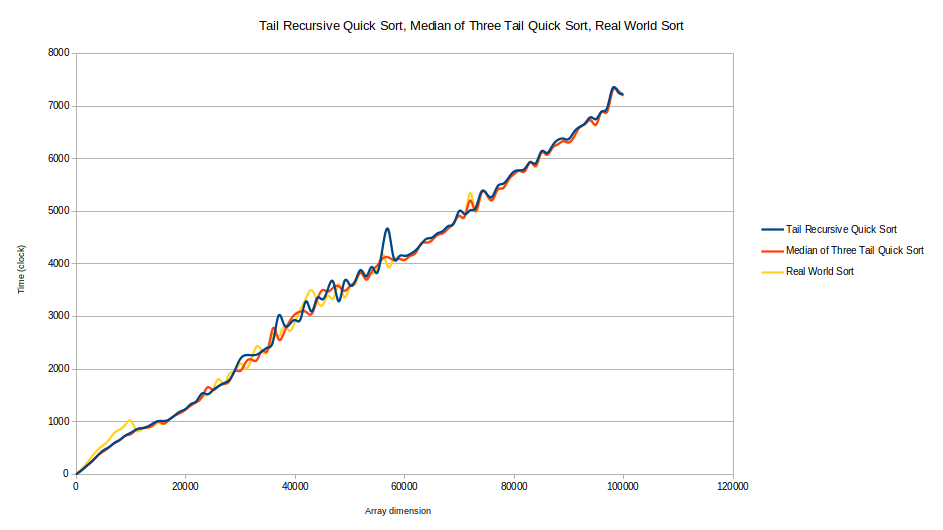
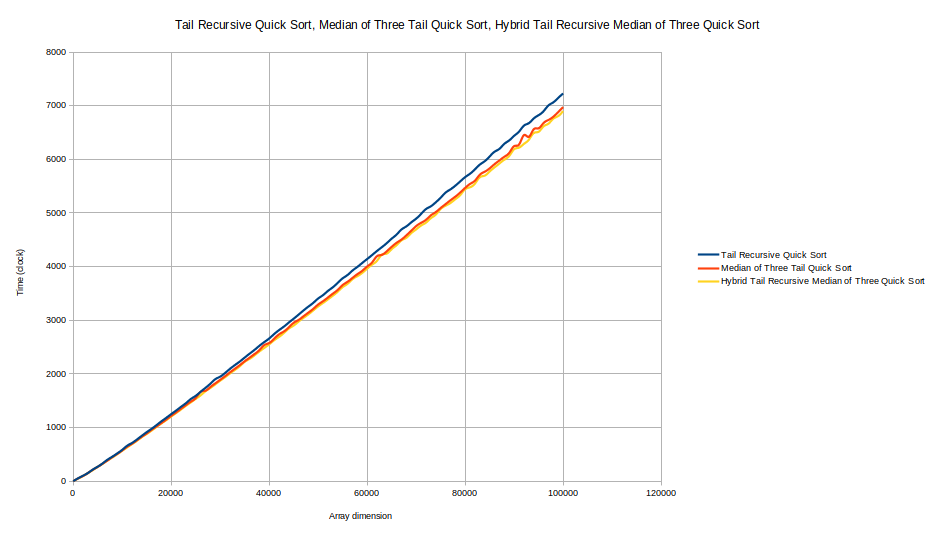
done exp. 4

Changed region(s): [[0.0, 0.0906, 0.8064, 0.9962], [0.7444, 0.4226, 0.9925, 0.5434], [0.1861, 0.0302, 0.8064, 0.0604]]

diff --git a/src/modules/experiments/experiments.c b/src/modules/experiments/experiments.c
@@ -89,7 +89,7 @@ long double experiment_tot(ssize_t length, size_t max_instances, Algorithm algor
                 break;
             }
 
-            case RWS: {
+            case HMTTQS: {
                 t_start = clock(); // starting processor time "stopwatch"
                 HybridTailMedianOfThreeQuickSort(array, 0, length - 1, THRESHOLD); // sorting the array
                 t_end = clock(); // stopping the processor time "stopwatch"
@@ -132,7 +132,7 @@ void lab_tot(char file[], Configuration conf, const bool DEBUG_MODE) {
     }
 
     fprintf(fp,
-            "Dimension (n),Insertion Sort,Merge Sort,Hybrid Sort,Quick Sort,Median of Three Quick Sort,Tail Recursive Quick Sort,Heap Sort,Median of Three Tail Quick Sort,Real World Sort\n");
+            "Dimension (n),Insertion Sort,Merge Sort,Hybrid Sort,Quick Sort,Median of Three Quick Sort,Tail Recursive Quick Sort,Heap Sort,Median of Three Tail Quick Sort,Tail Recursive Quick Sort, Median of Three Tail Quick Sort,Hybrid Tail Recursive Median of Three Quick Sort\n");
     for (ssize_t length = conf.min_length; length <= conf.max_length; length += conf.step) {
         srand(conf.seed);
         long double time_IS = experiment_tot(length, conf.max_instances, IS, conf.threshold, DEBUG_MODE);
@@ -159,10 +159,10 @@ void lab_tot(char file[], Configuration conf, const bool DEBUG_MODE) {
         long double time_MTTQS = experiment_tot(length, conf.max_instances, MTTQS, conf.threshold, DEBUG_MODE);
 
         srand(conf.seed);
-        long double time_RWS = experiment_tot(length, conf.max_instances, RWS, conf.threshold, DEBUG_MODE);
+        long double time_HMTTQS = experiment_tot(length, conf.max_instances, HMTTQS, conf.threshold, DEBUG_MODE);
 
         fprintf(fp, "%ld,%Lf,%Lf,%Lf,%Lf,%Lf,%Lf,%Lf,%Lf,%Lf\n", length, time_IS, time_MS, time_HS, time_QS,
-                time_MTQS, time_TQS, time_HPS, time_MTTQS, time_RWS); // write to file
+                time_MTQS, time_TQS, time_HPS, time_MTTQS, time_HMTTQS); // write to file
 
         ++conf.seed;
     }

diff --git a/src/modules/experiments/lab_4.c b/src/modules/experiments/lab_4.c
@@ -41,7 +41,7 @@ long double experiment_4(ssize_t length, size_t max_instances, Algorithm algorit
                 break;
             }
 
-            case RWS: {
+            case HMTTQS: {
                 t_start = clock(); // starting processor time stopwatch
                 HybridTailMedianOfThreeQuickSort(array, 0, length - 1, THRESHOLD); // sorting the array
                 t_end = clock();
@@ -84,7 +84,7 @@ void lab_4(char file[], Configuration conf, const bool DEBUG_MODE) {
     }
 
     fprintf(fp,
-            "Dimension (n),Tail Recursive Quick Sort,Median of Three Tail Quick Sort,Real World Sort\n");
+            "Dimension (n),Tail Recursive Quick Sort,Median of Three Tail Quick Sort,Hybrid Tail Recursive Median of Three Quick Sort\n");
     for (ssize_t length = conf.min_length; length <= conf.max_length; length += conf.step) {
         srand(conf.seed);
         long double time_TQS = experiment_4(length, conf.max_instances, TQS, conf.threshold, DEBUG_MODE);
@@ -93,9 +93,9 @@ void lab_4(char file[], Configuration conf, const bool DEBUG_MODE) {
         long double time_MTTQS = experiment_4(length, conf.max_instances, MTTQS, conf.threshold, DEBUG_MODE);
 
         srand(conf.seed);
-        long double time_RWS = experiment_4(length, conf.max_instances, RWS, conf.threshold, DEBUG_MODE);
+        long double time_HMTTQS = experiment_4(length, conf.max_instances, HMTTQS, conf.threshold, DEBUG_MODE);
 
-        fprintf(fp, "%ld,%Lf,%Lf,%Lf\n", length, time_TQS, time_MTTQS, time_RWS); // write to file
+        fprintf(fp, "%ld,%Lf,%Lf,%Lf\n", length, time_TQS, time_MTTQS, time_HMTTQS); // write to file
 
         ++conf.seed;
     }

diff --git a/src/headers/sortingAlgorithms.h b/src/headers/sortingAlgorithms.h
@@ -13,7 +13,7 @@ typedef enum algorithms {
     TQS = 5, // Tail Recursive Quick Sort (5)
     HPS = 6, // Heap Sort (6)
     MTTQS = 7, // Median of Three Tail Quick Sort (7)
-    RWS = 8, // Real World Sort (Heap Sort, Tail Recursive Quick Sort, Median of Three Quick Sort) (8)
+    HMTTQS = 8, // Hybrid Median of Three Tail Recursive Quick Sort (Insertion Sort, Median of Three Tail Recursive Quick Sort (8)
 } Algorithm;
 
 // IS - Insertion Sort
@@ -40,7 +40,7 @@ void HeapSort(int array[], ssize_t length);
 // MTTQS - Median of Three Tail Quick Sort
 void MedianOfThreeTailQuickSort(int array[], ssize_t l, ssize_t r);
 
-// RWS - Hybrid Tail Recursive Median of Three Quick Sort
+// HMTTQS - Hybrid Tail Recursive Median of Three Quick Sort
 void HybridTailMedianOfThreeQuickSort(int array[], ssize_t l, ssize_t r, ssize_t THRESHOLD);
 
 #endif //SORTING_ALGORITHMS_SORTINGALGORITHMS_H

diff --git a/src/main.c b/src/main.c
@@ -84,7 +84,7 @@ int main(int argc, char *argv[]) {
         /* Lab. 3 - Quick Sort, Median of Three Quick Sort */
         lab_3("../results/lab_3/lab_3.csv", lab3_conf, DEBUG_MODE);
     } else if (strcmp(argv[1], "4") == 0) {
-        /* // Lab. 4 - Tail Recursive Quick Sort, Median of Three Tail Quick Sort, Real World Sort */
+        /* Lab. 4 - Tail Recursive Quick Sort, Median of Three Tail Quick Sort, Hybrid Tail Recursive Median of Three Quick Sort */
         lab_4("../results/lab_4/lab_4.csv", lab4_conf, DEBUG_MODE);
     } else if (strcmp(argv[1], "5") == 0) {
         /* Final Experiment that runs all algorithms */

diff --git a/src/modules/experiments/lab_2.c b/src/modules/experiments/lab_2.c
@@ -174,7 +174,7 @@ long double experiment_2B(ssize_t length, size_t max_instances, Algorithm algori
                 break;
             }
 
-            case RWS: {
+            case HMTTQS: {
                 t_start = clock(); // starting processor time stopwatch
                 HybridTailMedianOfThreeQuickSort(array, 0, length - 1, THRESHOLD); // sorting the array
                 t_end = clock();
